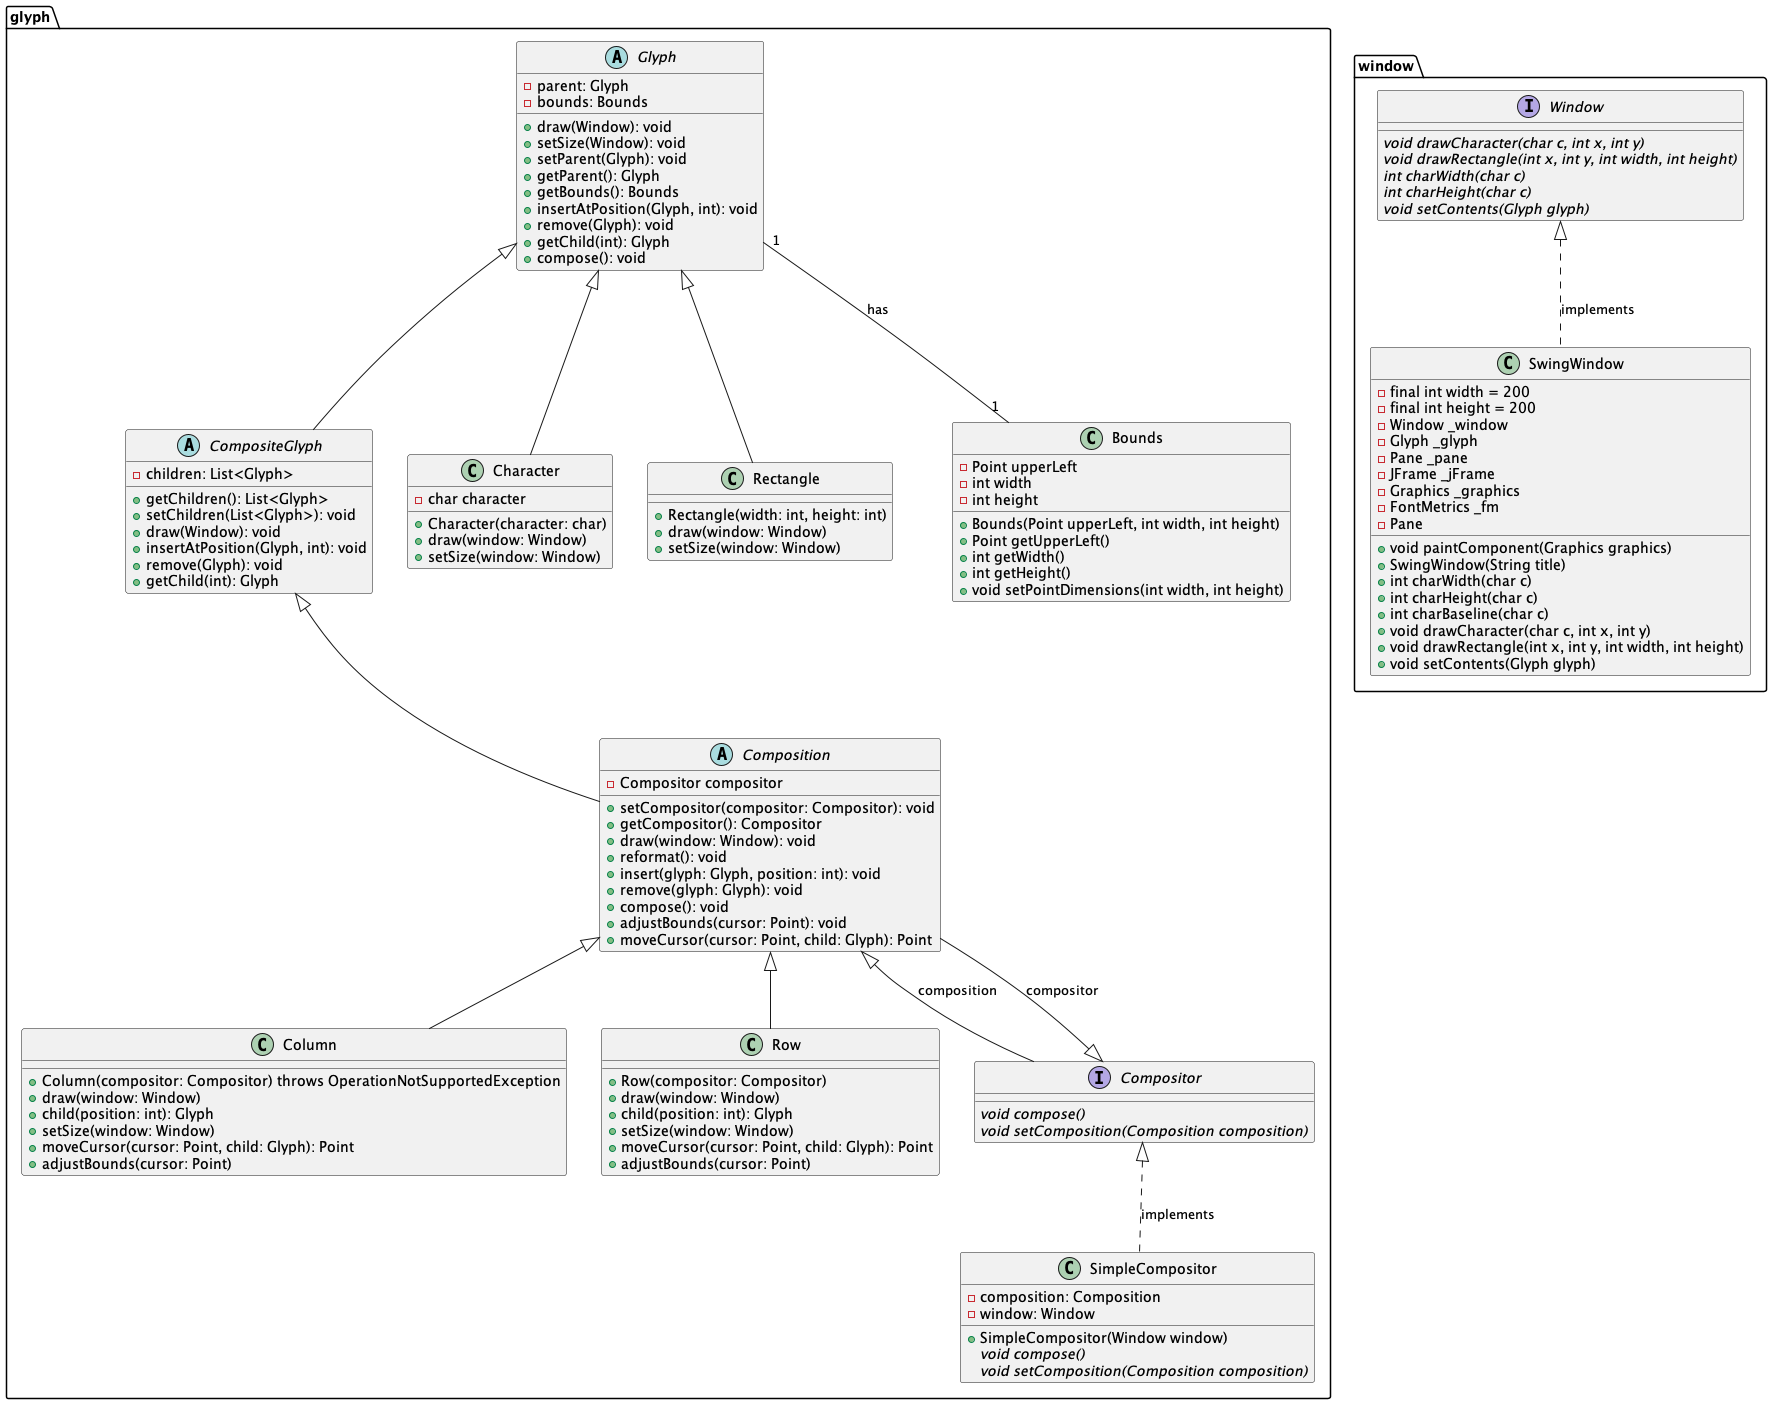
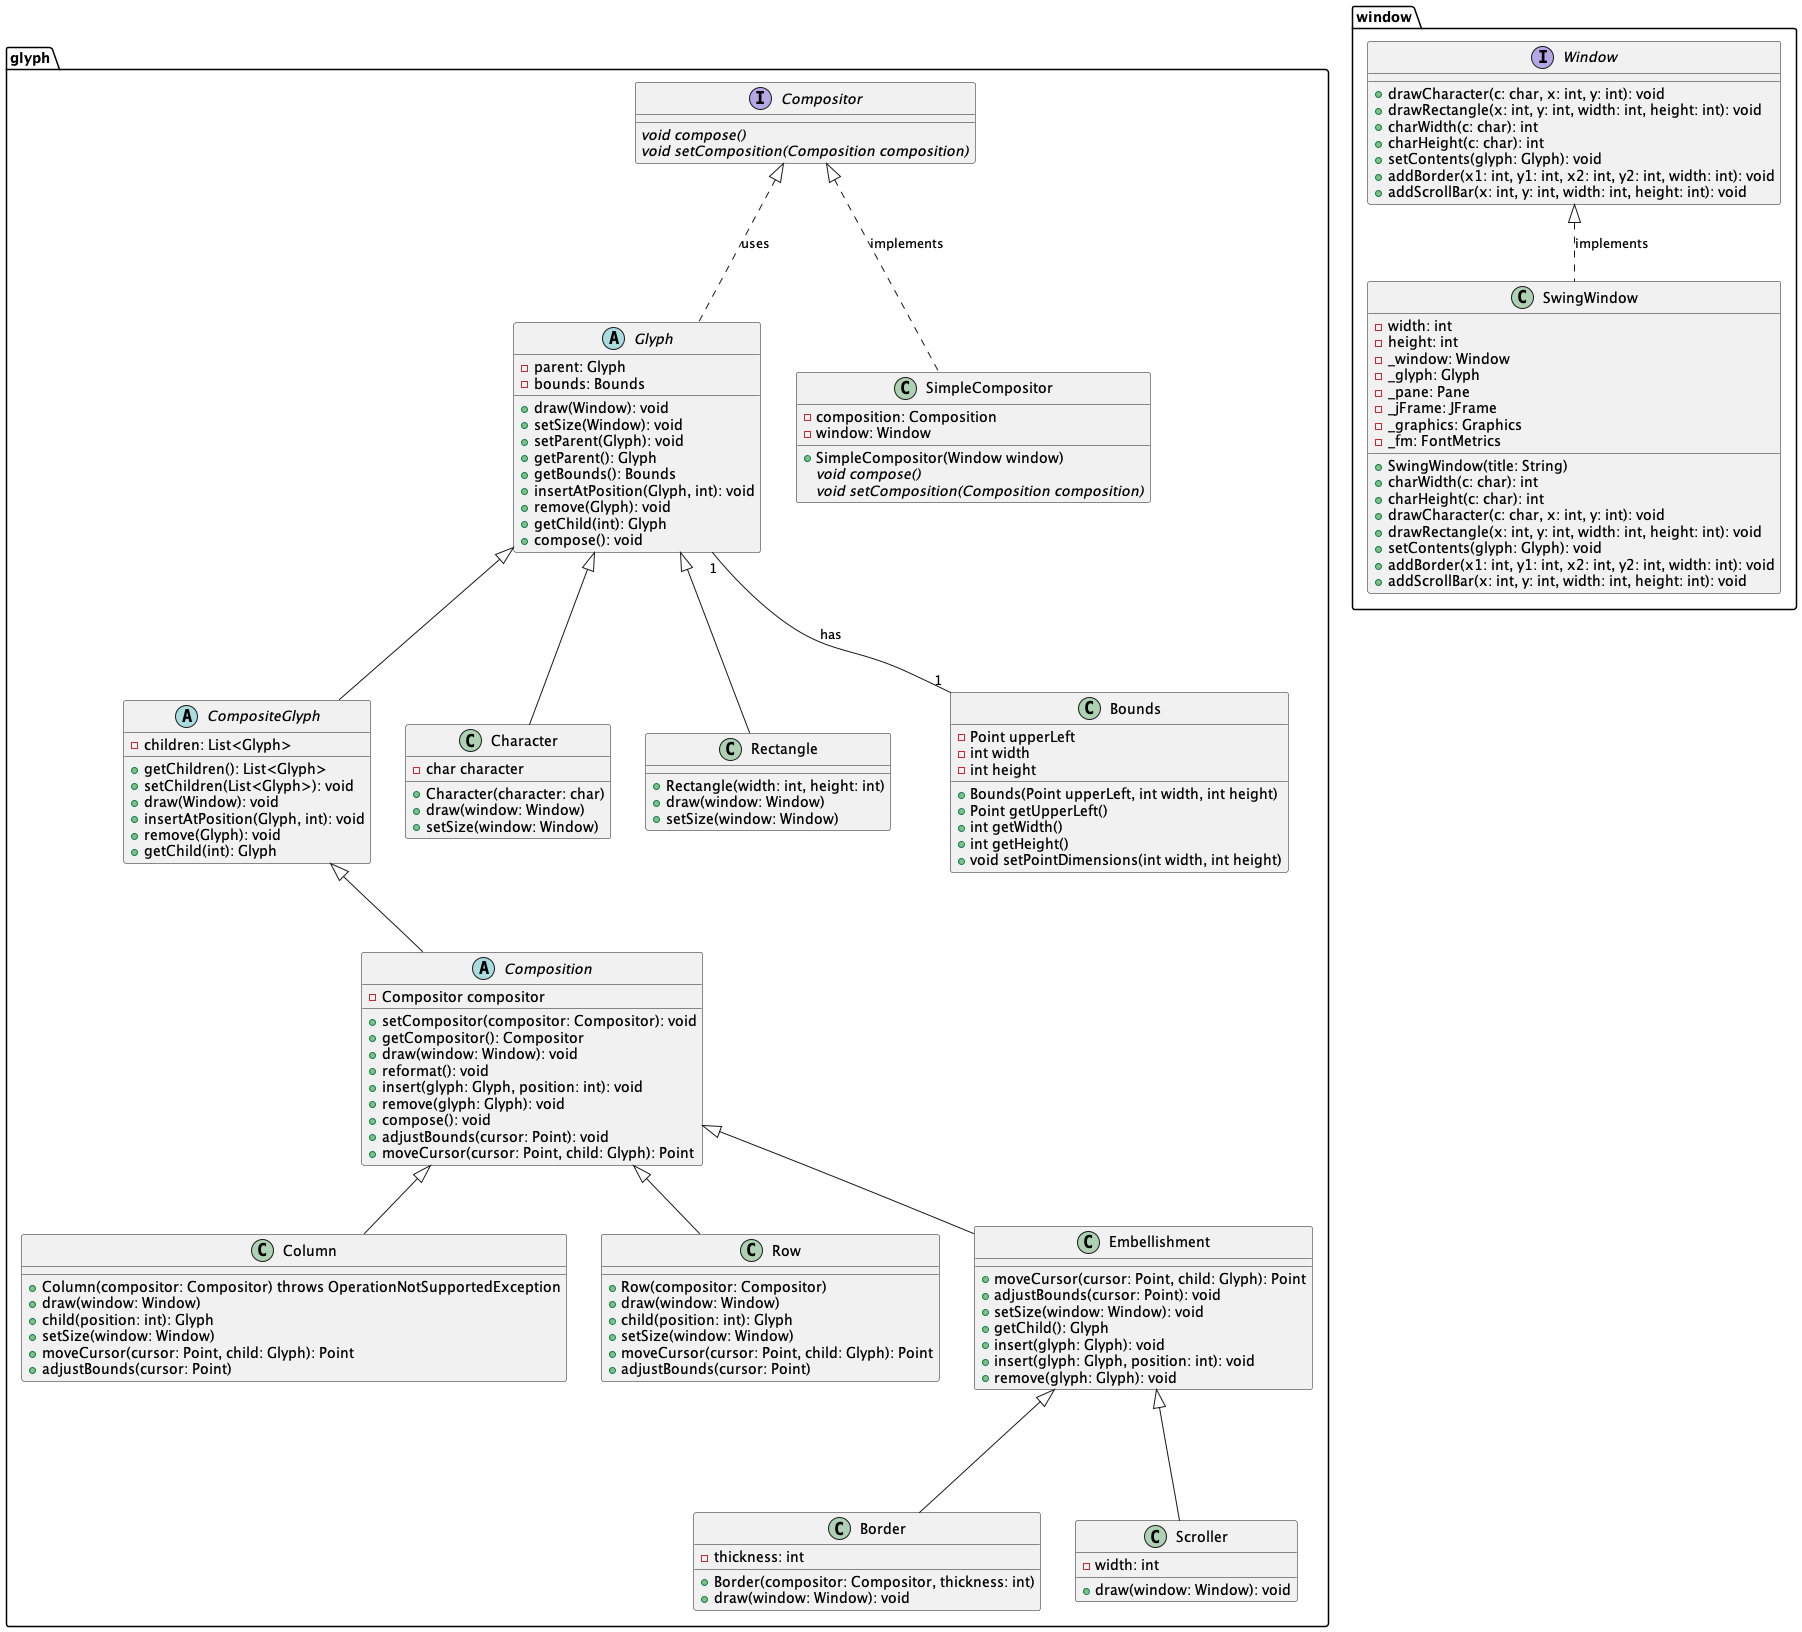
HW2 fixed some bugs

Changed region(s): [[0.0621, 0.0, 1.0, 0.5513], [0.0, 0.4288, 0.7449, 1.0], [0.0, 0.0, 0.031, 0.0613]]

diff --git a/Lexi/src/Tests.java b/Lexi/src/Tests.java
@@ -50,11 +50,44 @@ public class Tests {
         Column column2 = new Column(new SimpleCompositor(swingWindow));
         Scroller scroll1 = new Scroller(new SimpleCompositor(swingWindow));
         Border border1 = new Border(new SimpleCompositor(swingWindow), 2);
-        Scroller scroll2 = new Scroller(new SimpleCompositor(swingWindow));
-        Border border2 = new Border(new SimpleCompositor(swingWindow), 2);
 
         char[] characters = {' ', 'T', 'h', 'i', 's', ' ', 'i', 's', ' ', 'a', ' ', 'r', 'e', 'c', 't', 'a', 'n', 'g', 'l',
                               'e', ' ', 'w', 'i', 't', 'h', 'i', 'n', ' ', 'a', ' ', 'b', 'o','r','d','e','r'
+        };
+
+        try {
+            for(int i = 0; i < characters.length; i++){
+                row1.insertAtPosition(new Character(characters[i]), i);
+            }
+
+            column1.insertAtPosition(new Rectangle(50,50),characters.length+10);
+            column1.insertAtPosition(new Character(' '),characters.length+20);
+            column1.insertAtPosition(new Character('X'),characters.length+20);
+            row2.insertAtPosition(new Character('A'),0);
+            row2.insertAtPosition(new Character('l'),1);
+            row2.insertAtPosition(new Character('i'),2);
+            row2.insertAtPosition(new Character('c'),3);
+            row2.insertAtPosition(new Character('e'),4);
+            column1.insertAtPosition(row2, characters.length+21);
+            row1.insertAtPosition(column1, 10);
+            scroll1.insert(row1);
+            border1.insert(scroll1);
+
+        }
+        catch (OperationNotSupportedException e) {
+            System.out.println("OperationNotSupportedException caught");
+        }
+        swingWindow.setContents(border1);
+    }
+    public static void test2() throws OperationNotSupportedException {
+        Window swingWindow = new SwingWindow("Lexi");
+        Row row1 = new Row(new SimpleCompositor(swingWindow));
+        Column column1 = new Column(new SimpleCompositor(swingWindow));
+        Scroller scroll1 = new Scroller(new SimpleCompositor(swingWindow));
+        Border border1 = new Border(new SimpleCompositor(swingWindow), 2);
+
+        char[] characters = {' ', 'T', 'h', 'i', 's', ' ', 'i', 's', ' ', 'a', ' ', 'r', 'e', 'c', 't', 'a', 'n', 'g', 'l',
+                'e', ' ', 'w', 'i', 't', 'h', 'i', 'n', ' ', 'a', ' ', 'b', 'o','r','d','e','r'
         };
 
         try {
@@ -65,20 +98,18 @@ public class Tests {
             border1.insert(scroll1);
             column1.insertAtPosition(new Rectangle(50,50),characters.length+10);
             column1.insertAtPosition(new Character('X'),characters.length+20);
-            row2.insertAtPosition(new Character('A'),0);
-            row2.insertAtPosition(new Character('l'),1);
-            row2.insertAtPosition(new Character('i'),2);
-            row2.insertAtPosition(new Character('c'),3);
-            row2.insertAtPosition(new Character('e'),4);
-            scroll2.insert(row2);
-            border2.insert(scroll2);
-            column1.insertAtPosition(row2, characters.length+21);
             row1.insertAtPosition(column1, 0);
 
-        }
-        catch (OperationNotSupportedException e) {
+        } catch (OperationNotSupportedException e) {
             System.out.println("OperationNotSupportedException caught");
         }
         swingWindow.setContents(border1);
     }
+
+
+
+
+
+
+
 }

diff --git a/Lexi/src/glyph/SimpleCompositor.java b/Lexi/src/glyph/SimpleCompositor.java
@@ -3,26 +3,25 @@ package glyph;
 import window.Window;
 import java.awt.Point;
 
-public class SimpleCompositor implements Compositor{
+public class SimpleCompositor implements Compositor {
     private Composition composition;
     private Window window;
 
-    public SimpleCompositor(Window window){
+    public SimpleCompositor(Window window) {
         this.window = window;
     }
 
     @Override
-    public void compose(){
+    public void compose() {
         Point cursor = composition.getBounds().getUpperLeft();
-        boolean flag = false;
         int position = 0;
         Glyph child = null;
         Glyph origin = null;
 
         // Just loop until reaches the end
-        try{
-            while (true){
-                if(composition.getChild(position) != null){
+        try {
+            while (true) {
+                if (composition.getChild(position) != null) {
                     child = composition.getChild(position);
                     if (origin == null)
                         origin = child;
@@ -35,16 +34,16 @@ public class SimpleCompositor implements Compositor{
                 composition.adjustBounds(cursor);
                 position++;
             }
-        } catch (IndexOutOfBoundsException e){
+        } catch (IndexOutOfBoundsException e) {
 
         }
 
-        if(origin != null)
+        if (origin != null)
             composition.getBounds().getUpperLeft().setLocation(origin.getBounds().getUpperLeft());
     }
 
     @Override
-    public void setComposition(Composition composition){
+    public void setComposition(Composition composition) {
         this.composition = composition;
     }
 }

diff --git a/Lexi/src/glyph/Row.java b/Lexi/src/glyph/Row.java
@@ -5,7 +5,7 @@ import window.Window;
 import java.awt.Point;
 import java.util.ArrayList;
 
-public class Row extends Composition{
+public class Row extends Composition {
 
     public Row(Compositor compositor) {
         getBounds().setPointDimensions(0, 0);
@@ -20,29 +20,27 @@ public class Row extends Composition{
 
     }
 
-    public Glyph getChild(int position){
+    public Glyph getChild(int position) {
         return super.getChild(position);
     }
 
-    public void setSize(Window window){
+    public void setSize(Window window) {
         int width = 0;
         int height = 0;
         Glyph child = super.getChildren().get(0);
-        try{
-            for(int i = 1; i > -1; i++){
+        try {
+            for (int i = 1; i > -1; i++) {
                 width += child.getBounds().getWidth();
                 height = Math.max(height, child.getBounds().getHeight());
                 child = this.getChild(i);
             }
-        }
-        catch (Exception e){
+        } catch (Exception e) {
             getBounds().setPointDimensions(width, height);
         }
     }
 
-    public Point moveCursor(Point cursor, Glyph child){
+    public Point moveCursor(Point cursor, Glyph child) {
         cursor.x = child.getBounds().getUpperLeft().x + child.getBounds().getWidth();
         return cursor;
     }
-
 }

diff --git a/Lexi/src/glyph/CompositeGlyph.java b/Lexi/src/glyph/CompositeGlyph.java
@@ -6,7 +6,7 @@ import java.util.ArrayList;
 
 public abstract class CompositeGlyph extends Glyph{
     private ArrayList<Glyph> children = new ArrayList<>();
-    public ArrayList<Glyph> getChildren() {
+    protected ArrayList<Glyph> getChildren() {
         return children;
     }
     public void setChildren(ArrayList<Glyph> children) {
@@ -29,12 +29,19 @@ public abstract class CompositeGlyph extends Glyph{
 
         }
         children.add(position, glyph);
+        if (getParent() != null) {
+            getParent().compose();
+        }
+
     }
 
     @Override
-    public void remove(Glyph glyph){
+    public void remove(Glyph glyph) throws OperationNotSupportedException {
         if(children.contains(glyph)){
             children.remove(glyph);
+            if (getParent() != null) {
+                getParent().compose();
+            }
         }
     }
 
@@ -44,6 +51,7 @@ public abstract class CompositeGlyph extends Glyph{
             throw new IndexOutOfBoundsException("No child at position: out of bounds");
 
         return children.get(position);
+
     }
 
 }

diff --git a/Lexi/src/glyph/Embellishment.java b/Lexi/src/glyph/Embellishment.java
@@ -46,10 +46,18 @@ public class Embellishment extends Composition{
         reformat();
     }
 
-//    public void remove(Glyph glyph) throws IndexOutOfBoundsException {
-//        getChildren().get(0).remove(glyph);
-//
-//        // UPDATE INTERNAL STRUCTURE
-//        refactor();
-//    }
+    public void insert(Glyph glyph, int position) throws OperationNotSupportedException, IndexOutOfBoundsException {
+        getChildren().get(0).insertAtPosition(glyph, position); // forward to childs's insert
+        glyph.setParent(getChildren().get(0));
+
+        // UPDATE INTERNAL STRUCTURE
+        reformat();
+    }
+
+    public void remove(Glyph glyph) throws IndexOutOfBoundsException, OperationNotSupportedException {
+        getChildren().get(0).remove(glyph);
+
+        // UPDATE INTERNAL STRUCTURE
+        reformat();
+    }
 }

diff --git a/Lexi/src/glyph/Glyph.java b/Lexi/src/glyph/Glyph.java
@@ -32,10 +32,6 @@ public abstract class Glyph {
         throw new OperationNotSupportedException("Does not support children");
     }
 
-//    public Glyph getChild(int position) throws OperationNotSupportedException {
-//        throw new OperationNotSupportedException("Does not support children");
-//    }
-
     public void compose(){
 
     }

diff --git a/Lexi/src/Main.java b/Lexi/src/Main.java
@@ -3,7 +3,9 @@ import javax.naming.OperationNotSupportedException;
 
 public class Main {
     public static void main(String[] args) throws OperationNotSupportedException {
-        Tests.hw2tests();
+//        Tests.hw2tests();
+//        Tests.test2();
+          Tests.hw1Tests();
     }
 }
 

diff --git a/Lexi/src/glyph/Composition.java b/Lexi/src/glyph/Composition.java
@@ -41,7 +41,7 @@ public abstract class Composition extends CompositeGlyph{
         reformat();
     }
 
-    public void remove(Glyph glyph){
+    public void remove(Glyph glyph) throws OperationNotSupportedException {
         super.remove(glyph);
         reformat();
     }

diff --git a/Lexi/README.md b/Lexi/README.md
@@ -1,8 +1,8 @@
 ### Name: Rubal Goyal
 ### Course: CS572 - Object Oriented Design Patterns
-### Assignment: HW1
+### Assignment: HW2
 
-I found this assignment little challenging. At first, it  was very confusing what is compositor, composition and composite glyph. However, reading book help me in understandingthe difference between these and how to implement `Compositon Pattern` and `Statergy Pattern`.
+I found this assignment more challenging than HW1. The most difficult part was creating test cases and understand how Border and Scroller will reflect on screen.
 
 #### UML File 
 
